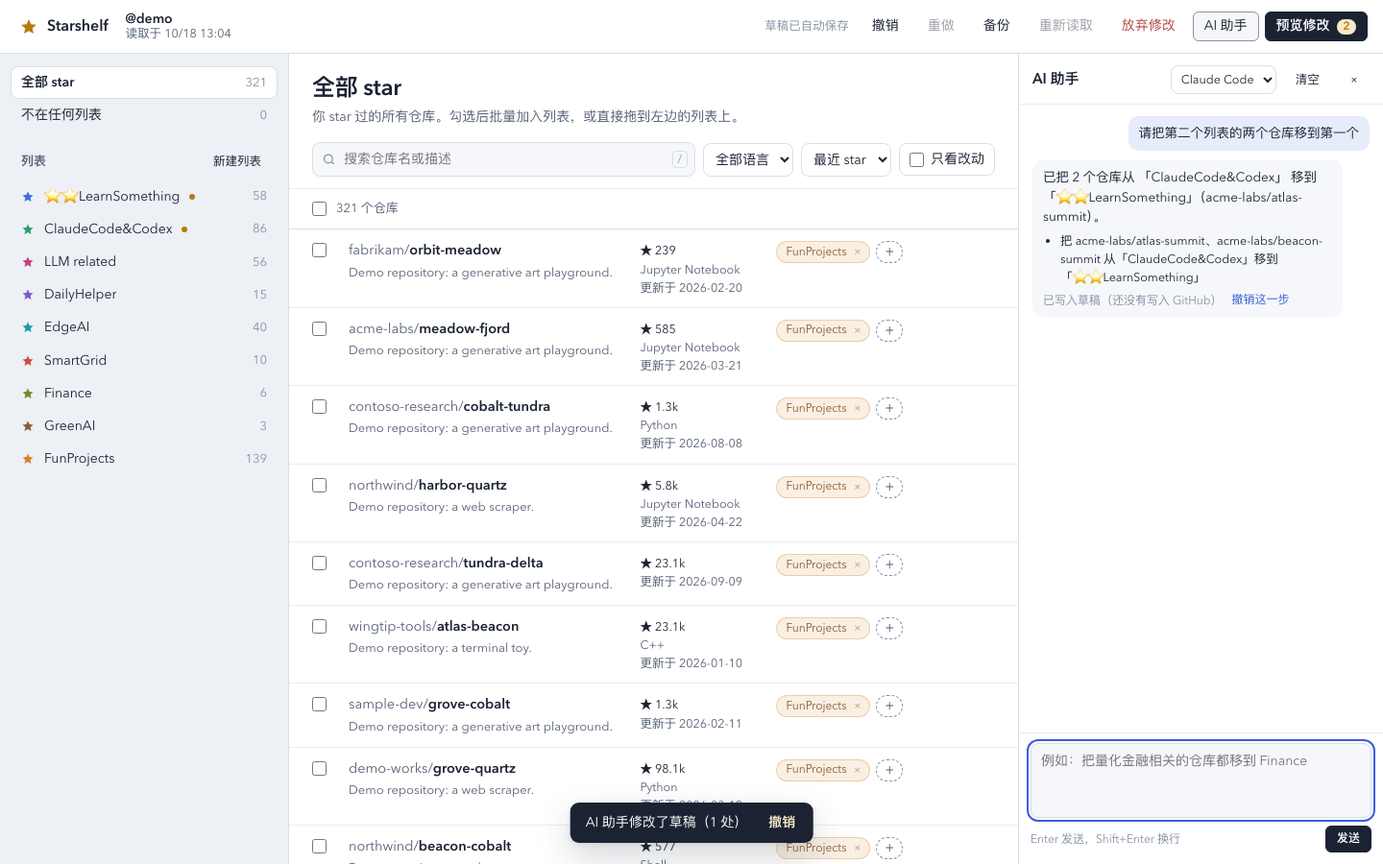
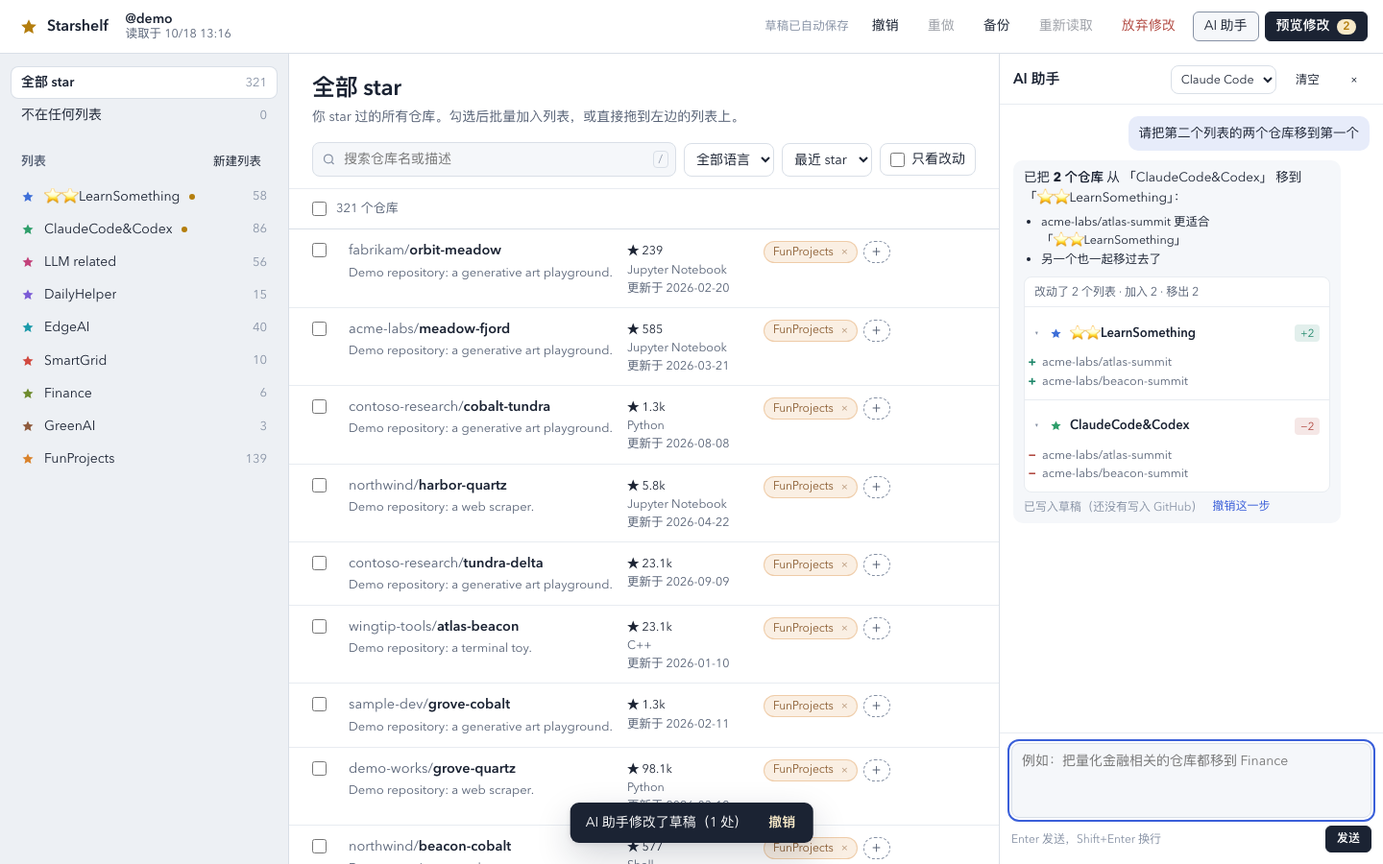
feat: resizable AI assistant panel, Markdown replies and change cards (#6)
- Drag the panel's left edge to resize it (or focus it and use the arrow
  keys; double-click resets to 400 px). The width is remembered.
- Replies render a safe Markdown subset (paragraphs, bullet lists, bold,
  code) built from DOM text nodes; the server keeps line breaks.
- The applied changes appear as cards, one row per list with +N / -N,
  new / renamed / deleted tags and the repos involved, plus unstar /
  keep-star rows; clicking a list name opens that list.
- The assistant is told it may use light Markdown and need not repeat
  every change. README and screenshot updated.

diff --git a/star_lists_ui.html b/star_lists_ui.html
@@ -308,9 +308,14 @@ details pre { max-height: 220px; overflow: auto; background: var(--sunk); border
 .ghostdrag { position: fixed; top: -200px; left: -200px; padding: 6px 11px; border-radius: 7px; background: var(--ink); color: var(--panel); font-size: 13px; }
 
 /* ---------- AI assistant drawer ---------- */
-.app.chat-open { grid-template-columns: 300px minmax(0, 1fr) 380px; }
+.app.chat-open { grid-template-columns: 300px minmax(0, 1fr) var(--chat-w, 400px); }
 .chat { display: none; }
-.app.chat-open .chat { display: flex; flex-direction: column; min-height: 0; background: var(--panel); border-left: 1px solid var(--rule); }
+.app.chat-open .chat { display: flex; flex-direction: column; min-height: 0; background: var(--panel); border-left: 1px solid var(--rule); position: relative; }
+.chat-resize { position: absolute; left: -5px; top: 0; bottom: 0; width: 10px; cursor: col-resize; z-index: 6; touch-action: none; }
+.chat-resize::after { content: ""; position: absolute; left: 4px; top: 0; bottom: 0; width: 2px; background: transparent; transition: background .15s; }
+.chat-resize:hover::after, .chat-resize:focus-visible::after, .chat-resize.dragging::after { background: var(--focus); }
+.chat-resize:focus-visible { outline: none; }
+body.resizing { cursor: col-resize; user-select: none; }
 .chat-head { display: flex; align-items: center; gap: 8px; padding: 12px 14px 10px; border-bottom: 1px solid var(--rule-2); }
 .chat-head h2 { margin: 0; font-size: 15px; font-weight: 600; flex: 1; }
 .chat-head select { max-width: 150px; font-size: 12.5px; padding: 4px 6px; }
@@ -320,7 +325,31 @@ details pre { max-height: 220px; overflow: auto; background: var(--sunk); border
 .chat-log { flex: 1; overflow: auto; padding: 12px 14px; display: flex; flex-direction: column; gap: 10px; }
 .msg { max-width: 92%; padding: 8px 11px; border-radius: 10px; font-size: 13.5px; line-height: 1.5; white-space: pre-wrap; overflow-wrap: anywhere; }
 .msg.me { align-self: flex-end; background: var(--sel); }
-.msg.ai { align-self: flex-start; background: var(--sunk); }
+.msg.ai { align-self: flex-start; background: var(--sunk); white-space: normal; width: 92%; }
+.md p { margin: 0 0 6px; }
+.md p:last-child, .md ul:last-child, .md ol:last-child { margin-bottom: 0; }
+.md ul, .md ol { margin: 2px 0 6px; padding-left: 20px; font-size: 13.5px; }
+.md li { margin: 2px 0; }
+.md code { font-family: ui-monospace, SFMono-Regular, Menlo, monospace; font-size: 12px; background: var(--panel); padding: 0 4px; border-radius: 4px; }
+.changes { margin-top: 8px; border: 1px solid var(--rule-2); border-radius: 8px; background: var(--panel); overflow: hidden; }
+.changes-head { padding: 6px 10px; font-size: 12px; color: var(--ink-2); border-bottom: 1px solid var(--rule-2); }
+.change { border-bottom: 1px solid var(--rule-2); }
+.change:last-child { border-bottom: 0; }
+.change summary { display: flex; align-items: center; gap: 8px; padding: 6px 10px; cursor: pointer; list-style: none; font-size: 13px; }
+.change summary::-webkit-details-marker { display: none; }
+.change summary::before { content: "▸"; color: var(--ink-3); font-size: 10px; width: 8px; flex: none; }
+.change[open] summary::before { content: "▾"; }
+.change .star { width: 13px; height: 13px; flex: none; }
+.change .cname { font-weight: 600; min-width: 0; overflow: hidden; text-overflow: ellipsis; white-space: nowrap; color: var(--ink); text-align: left; }
+.change .tags { margin-left: auto; display: flex; gap: 5px; flex: none; }
+.tagc { font-size: 11.5px; padding: 0 6px; border-radius: 4px; line-height: 18px; font-variant-numeric: tabular-nums; }
+.tagc.add { color: var(--add); background: color-mix(in srgb, var(--add) 13%, var(--panel)); }
+.tagc.del { color: var(--remove); background: color-mix(in srgb, var(--remove) 13%, var(--panel)); }
+.tagc.meta { color: var(--ink-2); background: var(--sunk); }
+.change ul { margin: 0; padding: 0 10px 8px 34px; font-size: 12.5px; color: var(--ink-2); overflow-wrap: anywhere; }
+.change li { margin: 1px 0; }
+.change li.add::marker { content: "+  "; color: var(--add); font-weight: 700; }
+.change li.del::marker { content: "−  "; color: var(--remove); font-weight: 700; }
 .msg.err { color: var(--remove); }
 .msg.pending { color: var(--ink-2); }
 .msg ul { margin: 6px 0 0; padding-left: 18px; font-size: 12.5px; white-space: normal; }
@@ -336,7 +365,7 @@ details pre { max-height: 220px; overflow: auto; background: var(--sunk); border
 #btnChat.on { background: var(--sunk); border-color: var(--ink-3); }
 @media (max-width: 1180px) {
   .app.chat-open { grid-template-columns: 300px minmax(0, 1fr); }
-  .app.chat-open .chat { position: fixed; right: 0; top: 0; bottom: 0; width: min(400px, 100vw); z-index: 45; box-shadow: var(--shadow); }
+  .app.chat-open .chat { position: fixed; right: 0; top: 0; bottom: 0; width: min(var(--chat-w, 400px), 100vw); z-index: 45; box-shadow: var(--shadow); }
 }
 
 /* ---------- narrow ---------- */
@@ -443,6 +472,8 @@ details pre { max-height: 220px; overflow: auto; background: var(--sunk); border
   </main>
 
   <aside class="chat" id="chat" aria-label="AI 助手">
+    <div class="chat-resize" id="chatResize" role="separator" aria-orientation="vertical" tabindex="0"
+      aria-label="调整 AI 助手的宽度" title="拖动调整宽度，双击恢复默认"></div>
     <div class="chat-head">
       <h2>AI 助手</h2>
       <select id="chatBackend" aria-label="使用哪个 AI"></select>
@@ -1369,7 +1400,7 @@ const CHAT_KEY = "sl-chat";
 const CHAT = { open: false, turns: [], waiting: null, waitingLabel: "", poll: null };
 const CHAT_EXAMPLES = ["把量化、金融相关的仓库都移到 Finance", "FunProjects 太杂了，按主题拆成几个列表",
   "哪些仓库还不在任何列表里？帮我归类", "把 EdgeAI 改名为「🔬 EdgeAI & Compression」"];
-const chatKeep = t => ({ role: t.role, text: t.text, ops: t.ops, warnings: t.warnings, label: t.label, undone: t.undone });
+const chatKeep = t => ({ role: t.role, text: t.text, ops: t.ops, changes: t.changes, warnings: t.warnings, label: t.label, undone: t.undone });
 function loadChat() {
   try {
     const o = JSON.parse(localStorage.getItem(CHAT_KEY) || "null");
@@ -1428,14 +1459,102 @@ function renderChat() {
   $("#chatSend").disabled = !!CHAT.waiting || !st || !st.available;
 }
 
+// A tiny, safe Markdown subset for AI replies: paragraphs, "- " / "1. " lists, **bold**, `code`.
+// Everything becomes DOM text nodes; nothing is parsed as HTML.
+function inlineMd(text) {
+  const out = [], re = /\*\*([^*]+)\*\*|`([^`]+)`/g;
+  let last = 0, m;
+  while ((m = re.exec(text))) {
+    if (m.index > last) out.push(text.slice(last, m.index));
+    out.push(m[1] !== undefined ? h("strong", {}, m[1]) : h("code", {}, m[2]));
+    last = re.lastIndex;
+  }
+  if (last < text.length) out.push(text.slice(last));
+  return out;
+}
+function mdEl(text) {
+  const box = h("div", { class: "md" });
+  let list = null, para = null;
+  for (const raw of String(text || "").split("\n")) {
+    const line = raw.trimEnd();
+    const item = line.match(/^\s*(?:[-*•]|(\d+)[.)])\s+(.*)$/);
+    if (item) {
+      const tag = item[1] ? "OL" : "UL";
+      if (!list || list.tagName !== tag) { list = h(tag.toLowerCase(), {}); box.append(list); }
+      list.append(h("li", {}, inlineMd(item[2])));
+      para = null;
+      continue;
+    }
+    list = null;
+    if (!line.trim()) { para = null; continue; }
+    if (para) para.append(h("br"), ...inlineMd(line));
+    else { para = h("p", {}, inlineMd(line)); box.append(para); }
+  }
+  return box;
+}
+
+// What one AI answer changed in the draft, grouped per list (from the draft before/after it).
+function draftChanges(beforeJson, afterJson) {
+  const a = JSON.parse(beforeJson), b = JSON.parse(afterJson);
+  const alive = arr => new Map(arr.filter(l => !l.deleted).map(l => [l.key, l]));
+  const A = alive(a.lists), B = alive(b.lists);
+  const nameOf = id => (S.repos.get(id) || {}).full_name || id;
+  const groups = [];
+  for (const [key, l] of B) {
+    const o = A.get(key), was = new Set(o ? o.items : []), now = new Set(l.items);
+    const g = { key, name: l.name, color: l.color, created: !o, renamedFrom: o && o.name !== l.name ? o.name : null,
+                deleted: false, added: l.items.filter(id => !was.has(id)).map(nameOf),
+                removed: o ? o.items.filter(id => !now.has(id)).map(nameOf) : [] };
+    if (g.created || g.renamedFrom || g.added.length || g.removed.length) groups.push(g);
+  }
+  for (const [key, o] of A) if (!B.has(key)) groups.push({ key, name: o.name, color: o.color, created: false, renamedFrom: null, deleted: true, added: [], removed: [] });
+  const ua = new Set(a.unstar || []), ub = new Set(b.unstar || []);
+  return { groups, unstar: [...ub].filter(id => !ua.has(id)).map(nameOf), keep: [...ua].filter(id => !ub.has(id)).map(nameOf) };
+}
+
+function changesEl(c) {
+  const added = c.groups.reduce((n, g) => n + g.added.length, 0), removed = c.groups.reduce((n, g) => n + g.removed.length, 0);
+  const head = [`改动了 ${c.groups.length} 个列表`];
+  if (added) head.push(`加入 ${added}`);
+  if (removed) head.push(`移出 ${removed}`);
+  if (c.unstar.length) head.push(`取消 star ${c.unstar.length}`);
+  if (c.keep.length) head.push(`保留 star ${c.keep.length}`);
+  const open = c.groups.length + (c.unstar.length ? 1 : 0) + (c.keep.length ? 1 : 0) <= 2;
+  const row = (color, title, onGo, tags, items) => h("details", { class: "change", open },
+    h("summary", {}, star(color),
+      onGo ? h("button", { class: "link cname", title: "查看这个列表", onclick: e => { e.preventDefault(); onGo(); } }, title)
+           : h("span", { class: "cname" }, title),
+      h("span", { class: "tags" }, tags)),
+    items.length ? h("ul", {}, items) : null);
+  const rows = c.groups.map(g => {
+    const tags = [], items = [];
+    if (g.created) tags.push(h("span", { class: "tagc meta" }, "新建"));
+    if (g.renamedFrom) { tags.push(h("span", { class: "tagc meta" }, "改名")); items.push(h("li", {}, `原名「${g.renamedFrom}」`)); }
+    if (g.deleted) { tags.push(h("span", { class: "tagc del" }, "删除")); items.push(h("li", {}, "删除这个列表，其中的仓库仍保持 star")); }
+    if (g.added.length) tags.push(h("span", { class: "tagc add" }, `+${g.added.length}`));
+    if (g.removed.length) tags.push(h("span", { class: "tagc del" }, `−${g.removed.length}`));
+    g.added.forEach(n => items.push(h("li", { class: "add" }, n)));
+    g.removed.forEach(n => items.push(h("li", { class: "del" }, n)));
+    const go = !g.deleted ? () => { const l = findList(g.key); if (l && !l.deleted) setView(l.key); } : null;
+    return row(PALETTE[(g.color || 0) % PALETTE.length], g.name, go, tags, items);
+  });
+  if (c.unstar.length) rows.push(row("var(--remove)", "取消 star", () => S.unstar.size && setView("unstar"),
+    [h("span", { class: "tagc del" }, `${c.unstar.length}`)], c.unstar.map(n => h("li", { class: "del" }, n))));
+  if (c.keep.length) rows.push(row("var(--add)", "保留 star", null,
+    [h("span", { class: "tagc add" }, `${c.keep.length}`)], c.keep.map(n => h("li", { class: "add" }, n))));
+  return h("div", { class: "changes" }, h("div", { class: "changes-head" }, head.join(" · ")), rows);
+}
+
 function turnEl(t) {
   if (t.role === "user") return h("div", { class: "msg me" }, t.text);
   if (t.role === "err") return h("div", { class: "msg ai err" }, t.text);
   const canUndo = !!t.after && !t.undone && snapState() === t.after;
-  return h("div", { class: "msg ai" }, t.text,
-    (t.ops || []).length ? h("ul", { class: "done" }, t.ops.map(o => h("li", {}, o))) : null,
+  const hasChanges = t.changes ? (t.changes.groups.length + t.changes.unstar.length + t.changes.keep.length > 0) : (t.ops || []).length > 0;
+  return h("div", { class: "msg ai" }, mdEl(t.text),
+    t.changes ? (hasChanges ? changesEl(t.changes) : null)
+      : (t.ops || []).length ? h("ul", { class: "done" }, t.ops.map(o => h("li", {}, o))) : null,
     (t.warnings || []).length ? h("ul", { class: "skipped" }, t.warnings.map(w => h("li", {}, w))) : null,
-    (t.ops || []).length ? h("div", { class: "turn-foot" }, h("span", {}, t.undone ? "已撤销这一步" : "已写入草稿（还没有写入 GitHub）"),
+    hasChanges ? h("div", { class: "turn-foot" }, h("span", {}, t.undone ? "已撤销这一步" : "已写入草稿（还没有写入 GitHub）"),
       t.undone ? null : h("button", { class: "link undo-turn", disabled: !canUndo,
         title: canUndo ? "撤销 AI 这一步对草稿的修改" : "之后草稿又改过；请用顶部的「撤销」逐步撤回",
         onclick: () => undoTurn(t) }, "撤销这一步")) : null);
@@ -1560,12 +1679,57 @@ function finishChat(res, label) {
   let out = { done: [], skipped: [] };
   const changed = commit(() => { out = applyChatOps(res.operations || []); });
   S.lists.filter(l => !l.id && !l.deleted).forEach(l => rememberColor(l));
+  const after = snapState();
   CHAT.turns.push({ role: "ai", label, text: res.reply || (changed ? "已按你的要求修改了草稿。" : "草稿不需要修改。"),
-    ops: changed ? out.done : [], warnings: [...(res.warnings || []), ...out.skipped],
-    before: changed ? before : null, after: changed ? snapState() : null });
+    ops: changed ? out.done : [], changes: changed ? draftChanges(before, after) : null,
+    warnings: [...(res.warnings || []), ...out.skipped], before: changed ? before : null, after: changed ? after : null });
   saveChat(); renderChat();
   if (changed) toast(`AI 助手修改了草稿（${out.done.length} 处）`);
 }
+
+// The drawer's width: drag its left edge (or focus it and use ←/→); double-click resets. Remembered per browser.
+const CHAT_W_KEY = "sl-chat-width", CHAT_W_DEFAULT = 400;
+function setChatWidth(w, save) {
+  const max = Math.max(320, Math.min(900, window.innerWidth - 420));
+  w = Math.round(Math.min(max, Math.max(300, w)));
+  $("#app").style.setProperty("--chat-w", w + "px");
+  CHAT.width = w;
+  const handle = $("#chatResize");
+  handle.setAttribute("aria-valuenow", String(w));
+  handle.setAttribute("aria-valuemin", "300");
+  handle.setAttribute("aria-valuemax", String(max));
+  if (save) { try { localStorage.setItem(CHAT_W_KEY, String(w)); } catch (_) {} }
+}
+(() => {
+  let saved = CHAT_W_DEFAULT;
+  try { saved = parseInt(localStorage.getItem(CHAT_W_KEY), 10) || CHAT_W_DEFAULT; } catch (_) {}
+  setChatWidth(saved, false);
+  const handle = $("#chatResize");
+  handle.addEventListener("pointerdown", e => {
+    e.preventDefault();
+    handle.setPointerCapture(e.pointerId);
+    handle.classList.add("dragging"); document.body.classList.add("resizing");
+  });
+  handle.addEventListener("pointermove", e => {
+    if (handle.hasPointerCapture(e.pointerId)) setChatWidth(window.innerWidth - e.clientX, false);
+  });
+  const stop = e => {
+    if (!handle.hasPointerCapture(e.pointerId)) return;
+    handle.releasePointerCapture(e.pointerId);
+    handle.classList.remove("dragging"); document.body.classList.remove("resizing");
+    setChatWidth(CHAT.width, true);
+  };
+  handle.addEventListener("pointerup", stop);
+  handle.addEventListener("pointercancel", stop);
+  handle.addEventListener("dblclick", () => setChatWidth(CHAT_W_DEFAULT, true));
+  handle.addEventListener("keydown", e => {
+    if (e.key === "ArrowLeft" || e.key === "ArrowRight") {
+      e.preventDefault();
+      setChatWidth(CHAT.width + (e.key === "ArrowLeft" ? 24 : -24), true);
+    }
+  });
+  window.addEventListener("resize", () => setChatWidth(CHAT.width, false));
+})();
 
 $("#btnChat").addEventListener("click", () => toggleChat());
 $("#chatClose").addEventListener("click", () => toggleChat(false));

diff --git a/tests/test_ui.py b/tests/test_ui.py
@@ -378,9 +378,20 @@ with sync_playwright() as p:
     check("reply names lists instead of ids", f"「{l1}」" in reply and " L1" not in reply and "r1" not in reply, reply)
     check("move applied to the draft", count(l1) == n1 + 2 and count(l2) == n2 - 2
           and int(page.locator("#changeCount").inner_text()) > 0, f"{count(l1)} {count(l2)}")
-    check("applied steps listed with a draft-only note", f"移到「{l1}」" in ai_msgs.first.locator("ul.done").inner_text()
-          and "还没有写入 GitHub" in ai_msgs.first.inner_text())
+    first = ai_msgs.first
+    check("reply rendered as light Markdown", first.locator(".md strong").inner_text() == "2 个仓库"
+          and first.locator(".md li").count() == 2, first.inner_html()[:400])
+    card = first.locator(".changes")
+    head = card.locator(".changes-head").inner_text()
+    check("changes shown as cards, one row per list", "改动了 2 个列表" in head and "加入 2" in head and "移出 2" in head
+          and card.locator(".change").count() == 2, head)
+    row1 = card.locator(".change", has_text=l1)
+    check("each row has the list's tags and the repos", row1.locator(".tagc.add").inner_text() == "+2"
+          and row1.locator("li.add").count() == 2 and card.locator(".change", has_text=l2).locator(".tagc.del").inner_text() == "−2")
+    check("draft-only note under the cards", "还没有写入 GitHub" in first.inner_text())
     page.screenshot(path=str(OUT / "15-ai-assistant.png"))
+    row1.locator(".cname").click()
+    check("clicking a list name opens that list", l1 in page.locator("#viewTitle").inner_text())
     ai_msgs.first.locator(".undo-turn").click()
     check("undo this step restores the draft", count(l1) == n1 and count(l2) == n2 and "已撤销这一步" in ai_msgs.first.inner_text())
     page.fill("#chatInput", "新建一个列表放没归类的")
@@ -399,12 +410,30 @@ with sync_playwright() as p:
     page.fill("#chatInput", "怎么移？")
     page.keyboard.press("Enter")
     expect(ai_msgs).to_have_count(4, timeout=15000)
-    check("a question changes nothing", ai_msgs.nth(3).locator("ul.done").count() == 0)
+    check("a question changes nothing", ai_msgs.nth(3).locator(".changes").count() == 0)
+    chat_w = lambda: round(page.locator("#chat").bounding_box()["width"])  # noqa: E731
+    w0 = chat_w()
+    edge = page.locator("#chatResize").bounding_box()
+    page.mouse.move(edge["x"] + edge["width"] / 2, edge["y"] + 300)
+    page.mouse.down()
+    page.mouse.move(edge["x"] - 200, edge["y"] + 300, steps=6)
+    page.mouse.up()
+    w1 = chat_w()
+    check("drag the left edge to widen the panel", w0 == 400 and 195 <= w1 - w0 <= 205, f"{w0} -> {w1}")
+    page.locator("#chatResize").focus()
+    page.keyboard.press("ArrowRight")
+    w2 = chat_w()
+    check("arrow key narrows it by 24 px", w1 - w2 == 24, f"{w1} -> {w2}")
+    page.screenshot(path=str(OUT / "16-ai-assistant-wide.png"))
     page.reload()
     expect(page.locator("#app")).to_be_visible(timeout=15000)
     check("drawer closed after reload", page.locator("#chat").is_hidden())
     page.click("#btnChat")
-    check("conversation kept after reload", page.locator("#chatLog .msg").count() == 8)
+    check("conversation kept after reload", page.locator("#chatLog .msg").count() == 8
+          and page.locator("#chatLog .changes").count() == 3)
+    check("panel width remembered after reload", chat_w() == w2, str(chat_w()))
+    page.locator("#chatResize").dblclick()
+    check("double-click restores the default width", chat_w() == 400, str(chat_w()))
     page.click("#chatClear")
     check("clear empties the conversation", page.locator("#chatLog .msg").count() == 0)
     page.click("#chatClose")

diff --git a/star_lists_ai.py b/star_lists_ai.py
@@ -91,7 +91,15 @@ def _name(raw: Any) -> str:
     return _clip(str(raw or ""), NAME_MAX)
 
 
-def _readable(prompt: Prompt, req: Any, notes: str, new_names: Optional[dict[str, str]] = None) -> str:
+def _clip_lines(text: str, n: int) -> str:
+    """Like _clip, but keeps line breaks (the page renders replies as light Markdown)."""
+    lines = [" ".join(line.split()) for line in (text or "").splitlines()]
+    text = re.sub(r"\n{3,}", "\n\n", "\n".join(lines)).strip()
+    return text if len(text) <= n else text[: n - 1] + "…"
+
+
+def _readable(prompt: Prompt, req: Any, notes: str, new_names: Optional[dict[str, str]] = None,
+              multiline: bool = False) -> str:
     """Replace the prompt's ids (L3, r12, and N1 for lists made in this answer) in the AI's text
     with the real list / repo names. ``req`` is any request with ``.lists``."""
     names = {l.key: l.name for l in req.lists}
@@ -107,7 +115,8 @@ def _readable(prompt: Prompt, req: Any, notes: str, new_names: Optional[dict[str
             return prompt.repo_names.get(prompt.repo_refs[ref], ref)
         return ref
 
-    return _clip(re.sub(r"\b[LrN]\d+\b", sub, notes), 1200)
+    text = re.sub(r"\b[LrN]\d+\b", sub, notes)
+    return _clip_lines(text, 1200) if multiline else _clip(text, 1200)
 
 
 # --------------------------------------------------------------------------- chat ("AI 助手")
@@ -123,8 +132,10 @@ never say a change is already on GitHub.
 
 Every turn you get the current draft lists (ids L1, L2, ...), every repository (ids r1, r2, ...) with the
 lists it is in now, the conversation so far and the person's newest message. Answer with JSON:
-- "reply": in Simplified Chinese, 1-4 short sentences: what you changed, or a question. Call lists and
-  repositories by their names, never by their ids.
+- "reply": in Simplified Chinese, short: what you changed and why, or a question. You may use light
+  Markdown (**bold**, "- " bullet lists, `code`); no headings, tables or links. Do not list every single
+  change: the page shows the applied changes as cards under your reply. Call lists and repositories by
+  their names, never by their ids.
 - "operations": the changes, applied in order. Every operation has all fields "op", "repos" (repository
   ids), "list", "to", "name", "description"; use "" or [] for fields an operation does not use.
   * add: put "repos" into "list".
@@ -296,7 +307,7 @@ def interpret_chat(req: ChatRequest, prompt: Prompt, data: Any) -> dict[str, Any
         warnings.append(f"AI 的回答里有 {unknown} 个无效的仓库编号，已忽略。")
     if skipped:
         warnings.append(f"有 {skipped} 步操作不完整或无效，已跳过。")
-    reply = _readable(prompt, req, str(data.get("reply") or ""), created).strip()
+    reply = _readable(prompt, req, str(data.get("reply") or ""), created, multiline=True)
     if not reply and not ops:
         raise AIError("AI 没有给出回答，请换个说法再试一次。")
     return {"reply": reply, "operations": ops, "warnings": warnings}

diff --git a/tests/test_ai.py b/tests/test_ai.py
@@ -91,6 +91,8 @@ check("chat ops: refs mapped to draft keys, repo ids and new-list refs", mv["lis
 check("chat ops: invalid steps and ids reported", any("1 个无效的仓库编号" in w for w in res["warnings"])
       and any("4 步操作" in w for w in res["warnings"]), str(res["warnings"]))
 check("chat reply: ids become names", res["reply"] == "把 alice/repo1 从 「AI」 移到 「New One」，L9 不存在", res["reply"])
+md = ai.interpret_chat(c, cp, {"reply": "已移动  **2 个**：\n- r1 到 L1\n\n\n\n- 完成   了", "operations": []})["reply"]
+check("chat reply keeps line breaks (Markdown) and maps ids", md == "已移动 **2 个**：\n- alice/repo1 到 「AI」\n\n- 完成 了", repr(md))
 check("chat: a question without operations is fine", ai.interpret_chat(c, cp, {"reply": "哪个列表？", "operations": []})["operations"] == [])
 check("chat: nothing at all refused", raises(lambda: ai.interpret_chat(c, cp, {"reply": "", "operations": []}), "没有给出回答"))
 

diff --git a/tests/fake_ai.py b/tests/fake_ai.py
@@ -38,7 +38,7 @@ def chat_answer(prompt: ai.Prompt) -> dict[str, Any]:
     if "移到" in msg:
         src, dst = refs[1], refs[0]
         moving = [r for r, _, inside in repos if src in inside and dst not in inside][:2]
-        return {"reply": f"已把 2 个仓库从 {src} 移到 {dst}（{moving[0]}）。",
+        return {"reply": f"已把 **2 个仓库** 从 {src} 移到 {dst}：\n- {moving[0]} 更适合 {dst}\n- 另一个也一起移过去了",
                 "operations": [{**blank, "op": "move", "repos": moving, "list": src, "to": dst}]}
     if "新建" in msg:
         loose = [r for r, _, inside in repos if not inside][:2]

diff --git a/README.md b/README.md
@@ -85,8 +85,14 @@ With `--yes`, a plan that removes stars also needs `--allow-unstar`.
 ## AI assistant
 
 **AI 助手** (AI assistant) opens a chat panel on the right. Tell it what to change in plain words —
-from a single move to a complete new layout; it answers with a short reply and the changes it made
-to your draft, which you can undo step by step. It asks back when a request is unclear.
+from a single move to a complete new layout. It asks back when a request is unclear.
+
+- Each answer is a short note (with **bold** and bullet lists where useful) plus **change cards**:
+  one row per list with `+N` / `−N` tags, new / renamed / deleted lists and the unstar marks; open a
+  row to see which repositories moved, click the list name to jump to it.
+- Every answer is one step in your draft: undo it from the message or with the normal undo.
+- Drag the panel's left edge to make it wider or narrower (or focus the edge and use ← / →;
+  double-click resets it). The width is remembered.
 
 ![AI assistant](docs/screenshots/ai-assistant.png)
 

diff --git a/README.zh-CN.md b/README.zh-CN.md
@@ -79,7 +79,12 @@ python3 star_lists.py restore stars_backup/snapshots/<文件>.json
 ## AI 助手
 
 点击「AI 助手」后在右侧打开对话面板。用自然语言说要怎么改——小到移动一个仓库，大到重新设计全部列表。
-AI 会回复一段说明，并列出它对草稿做的修改，每一步都可以撤销。需求不清楚时，它会先反问。
+需求不清楚时，AI 会先反问。
+
+- 每次回答是一段简短说明（必要时用**加粗**和项目列表），下面附**变更卡片**：每个列表一行，标出 `+N` / `−N`、
+  新建 / 改名 / 删除，以及取消 star 的仓库；点开一行能看到具体是哪些仓库，点列表名可直接跳过去。
+- 每次回答都是草稿里的一步修改，可以在消息上点「撤销这一步」，也可以用顶部的「撤销」。
+- 拖动面板左边缘可以调宽或调窄（也可以选中边缘后按 ← / →，双击恢复默认），宽度会被记住。
 
 ![AI 助手](docs/screenshots/ai-assistant.png)
 
